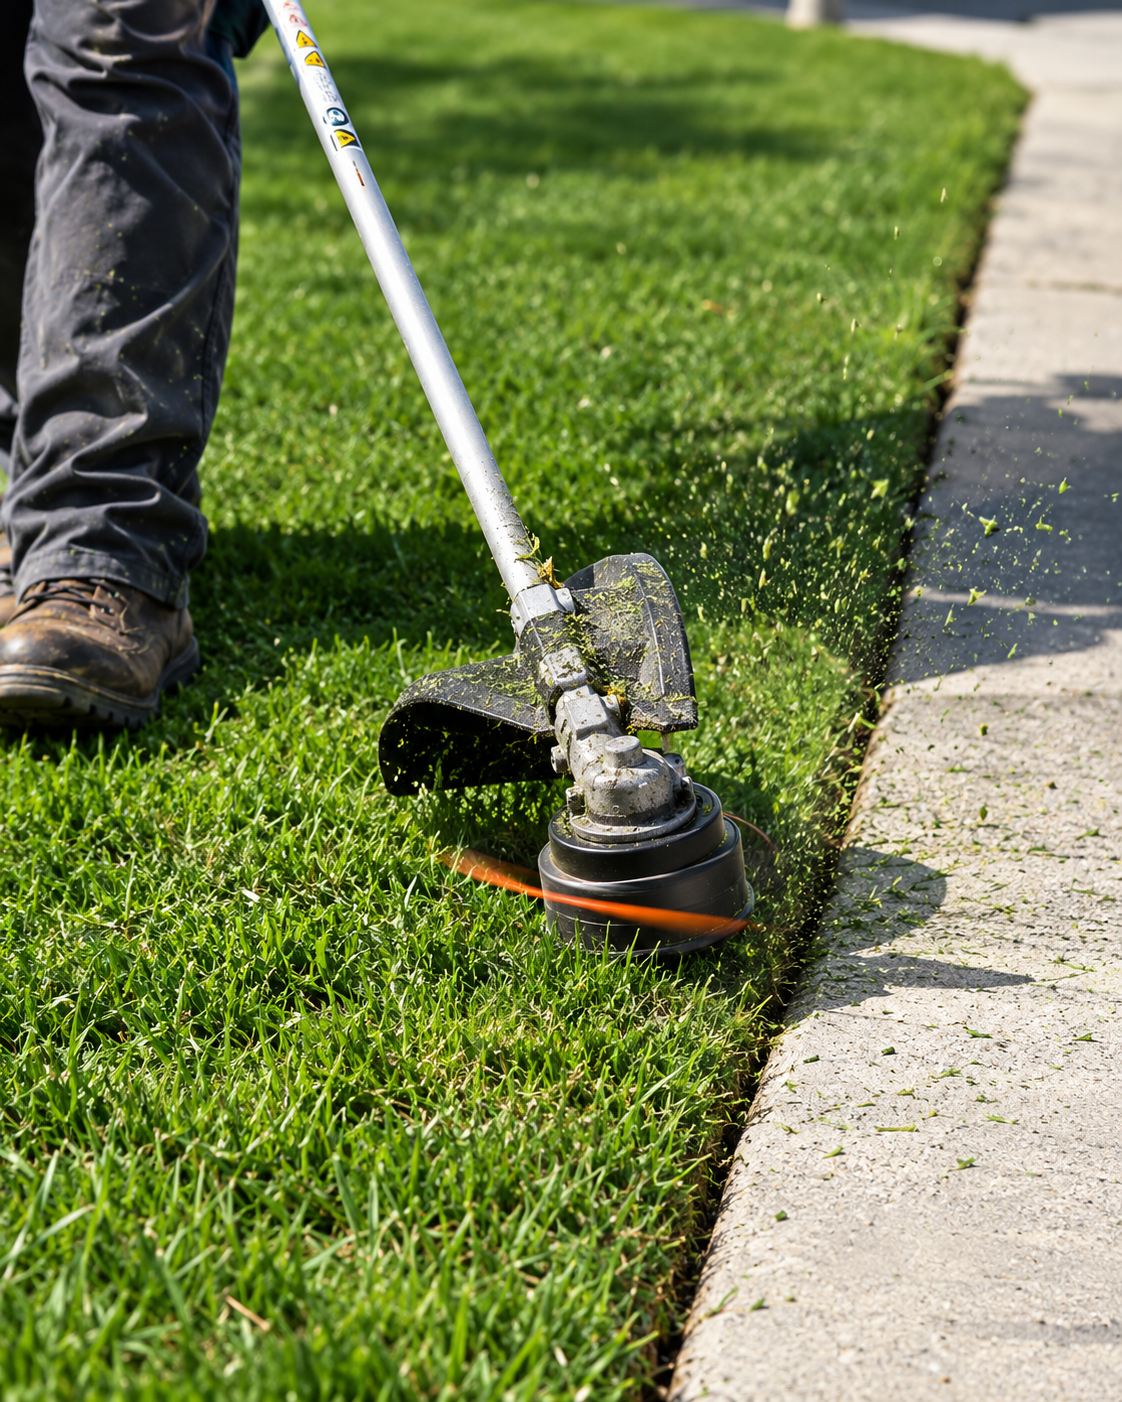
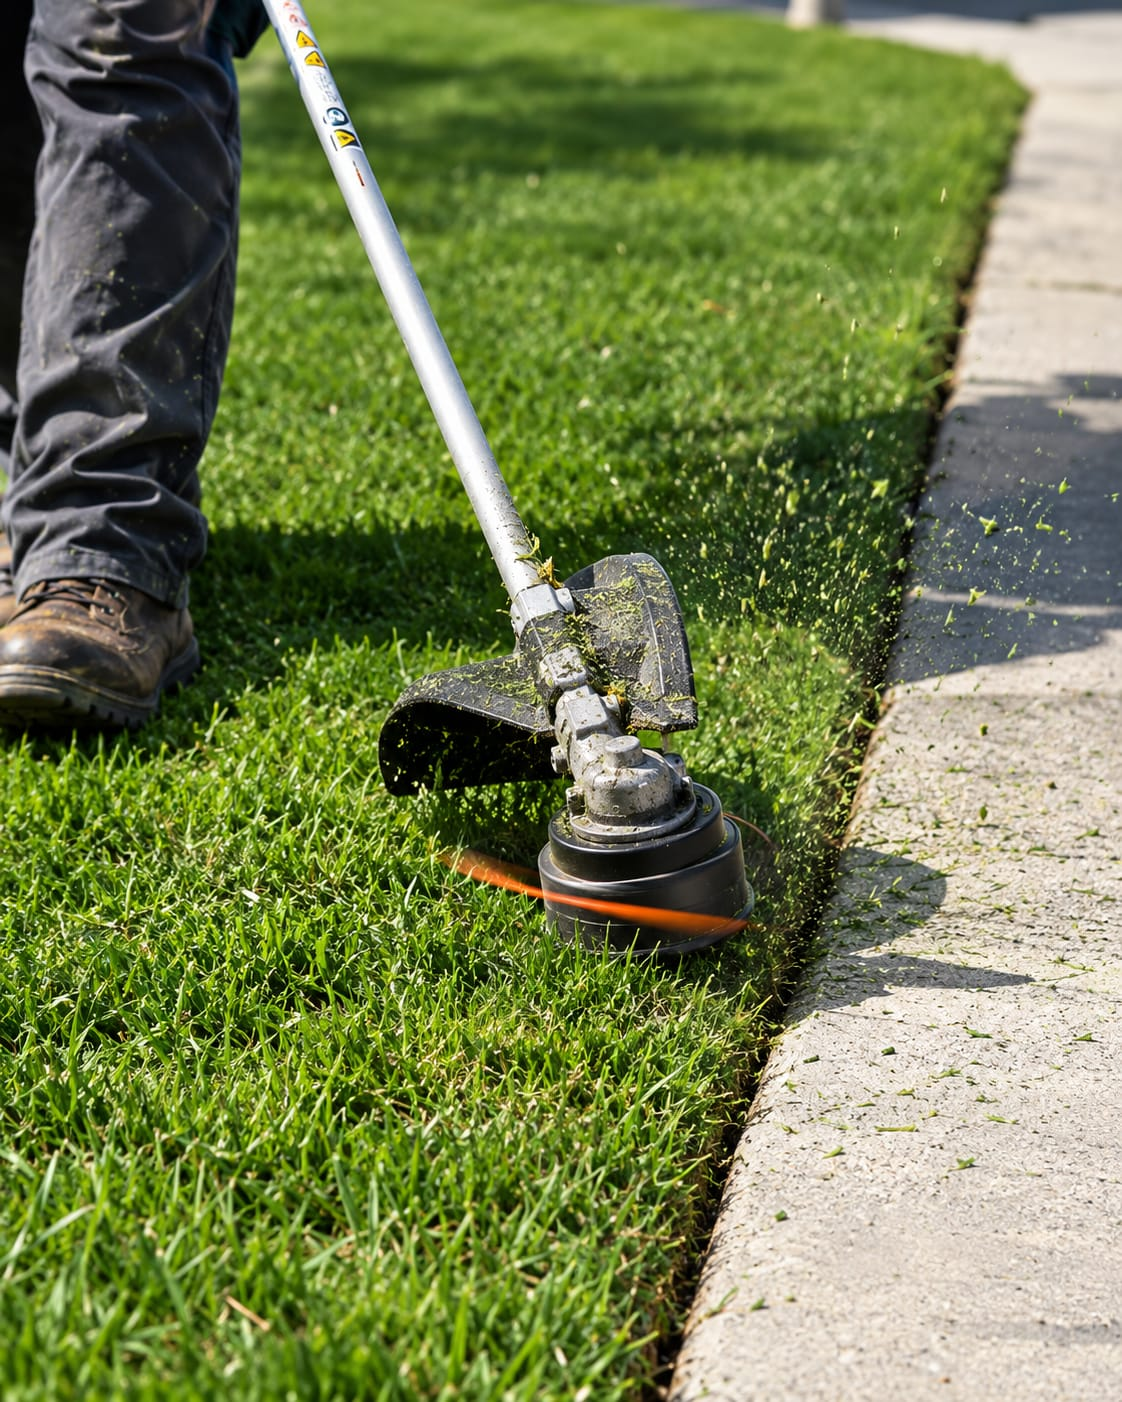
Optimize public images: 90% size reduction with progressive JPEG and hero preloading

diff --git a/.astro/types.d.ts b/.astro/types.d.ts
@@ -1,1 +1,2 @@
 /// <reference types="astro/client" />
+/// <reference path="content.d.ts" />
